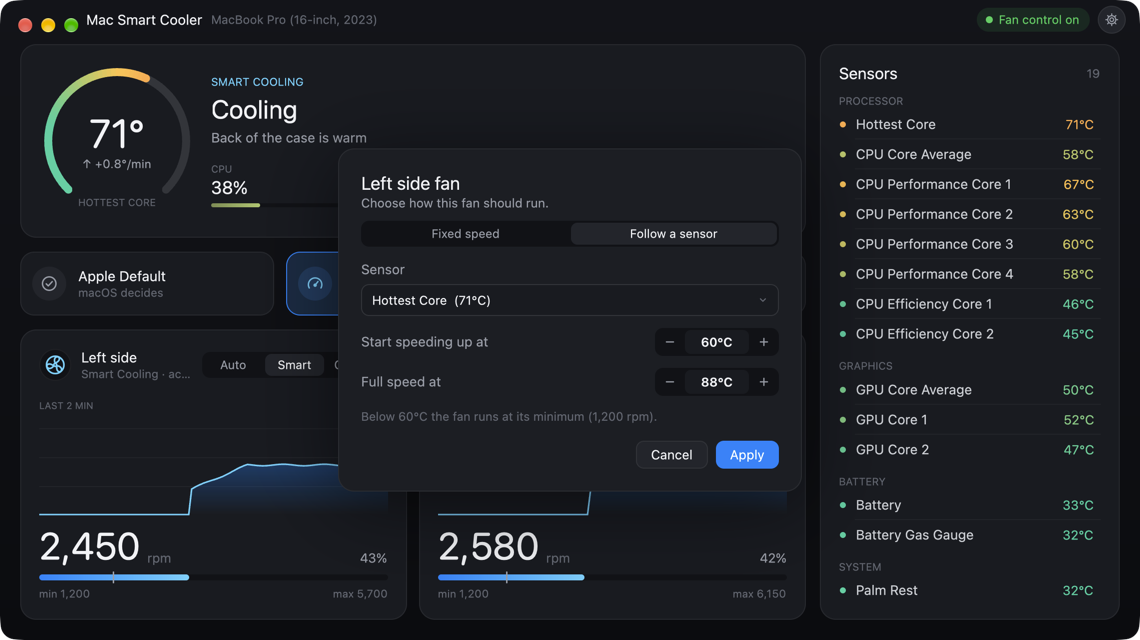
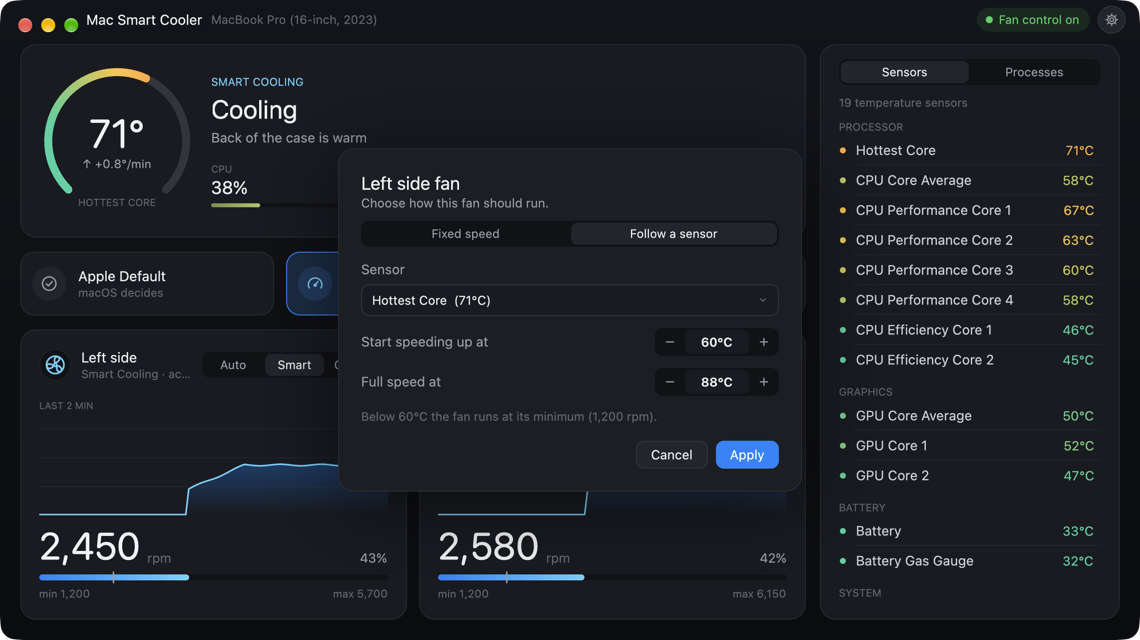
docs: update the README screenshots and add the Processes tab (#13)

diff --git a/README.md b/README.md
@@ -100,6 +100,8 @@ tested so far on a 16-inch M1 Max), is in **[Modes and Smart Cooling](docs/smart
 
 ## Why are the fans on?
 
+![The Processes tab: what was busy when the fans came on, and the busiest processes now](docs/screenshots/processes.png)
+
 The **Processes** tab (next to **Sensors**, or click the CPU or GPU meter) lists what is using
 the CPU and GPU, averaged over the last 30 seconds, including macOS's own services such as
 Spotlight (`mds_stores`) or WindowServer. Hover a row for what the process is. Above the
